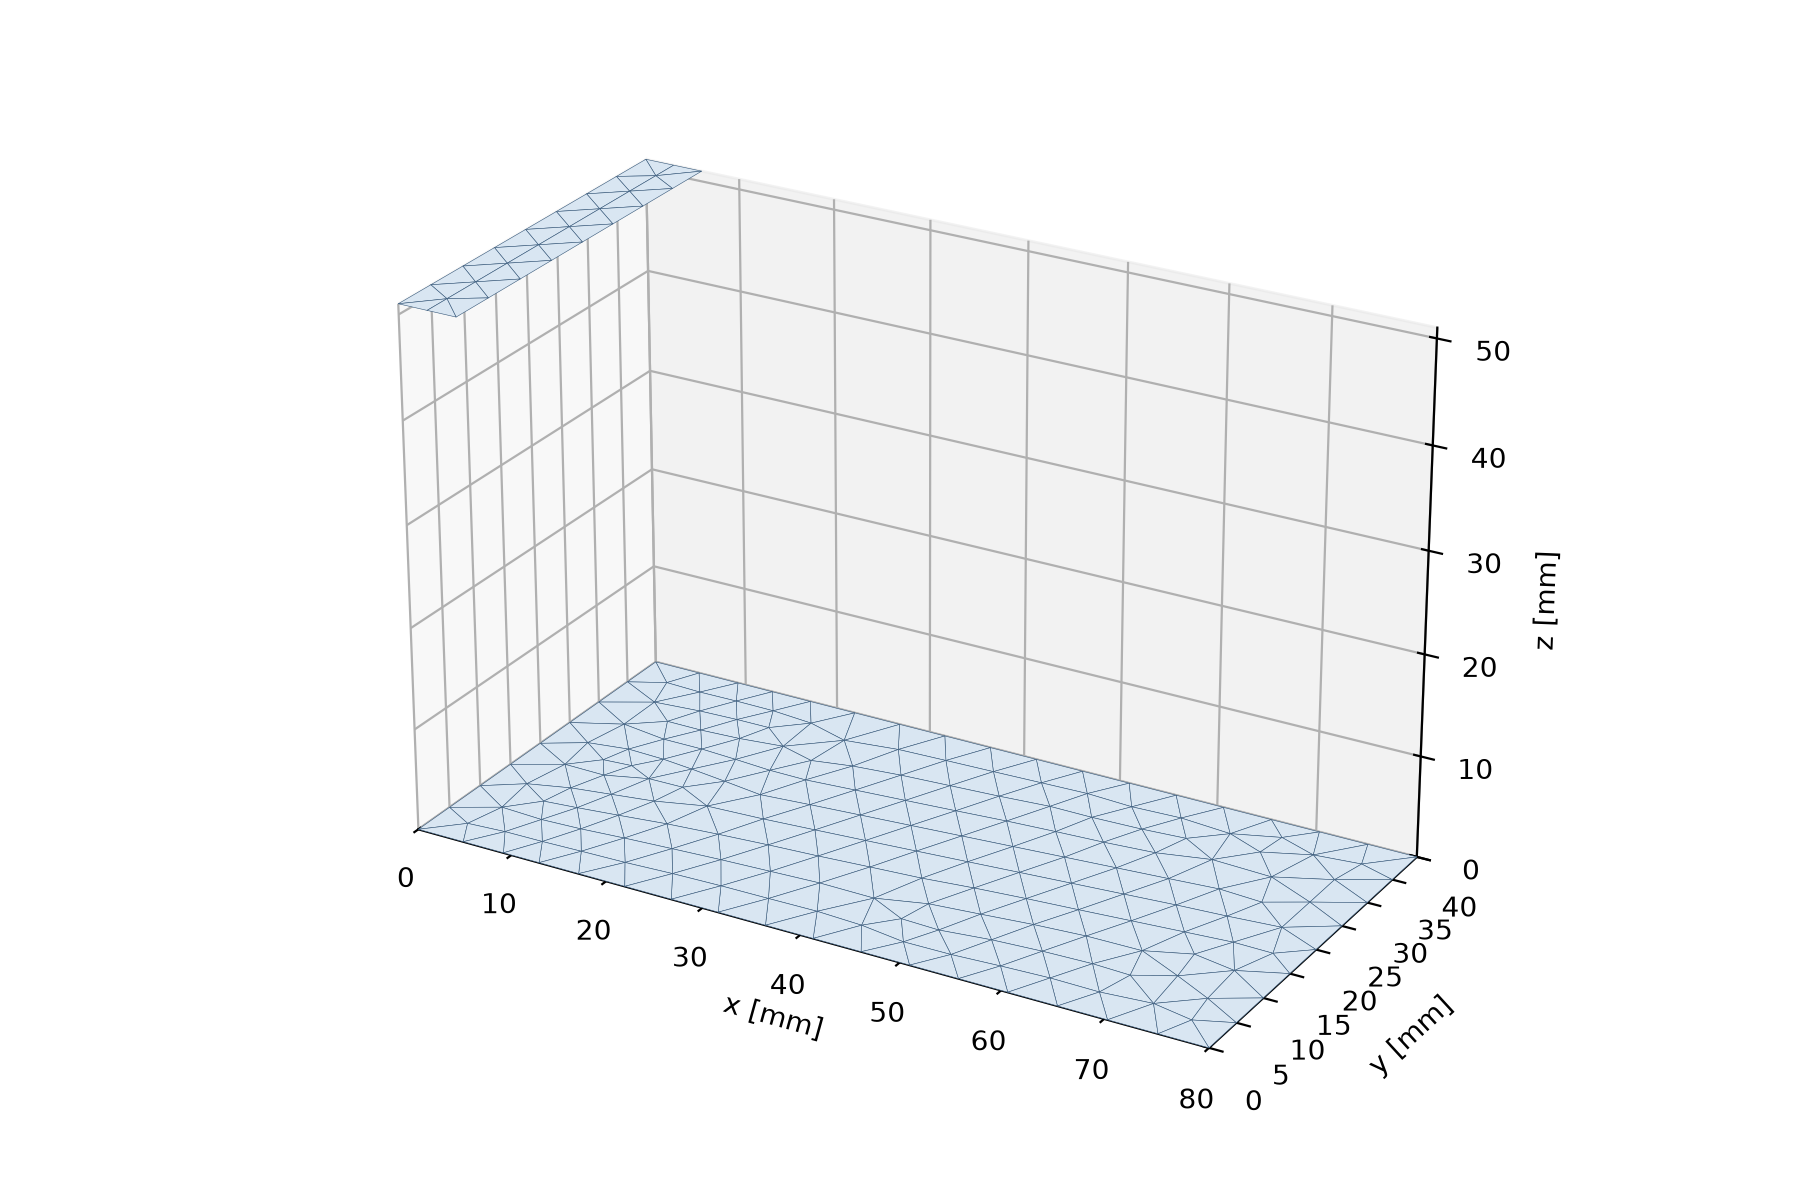
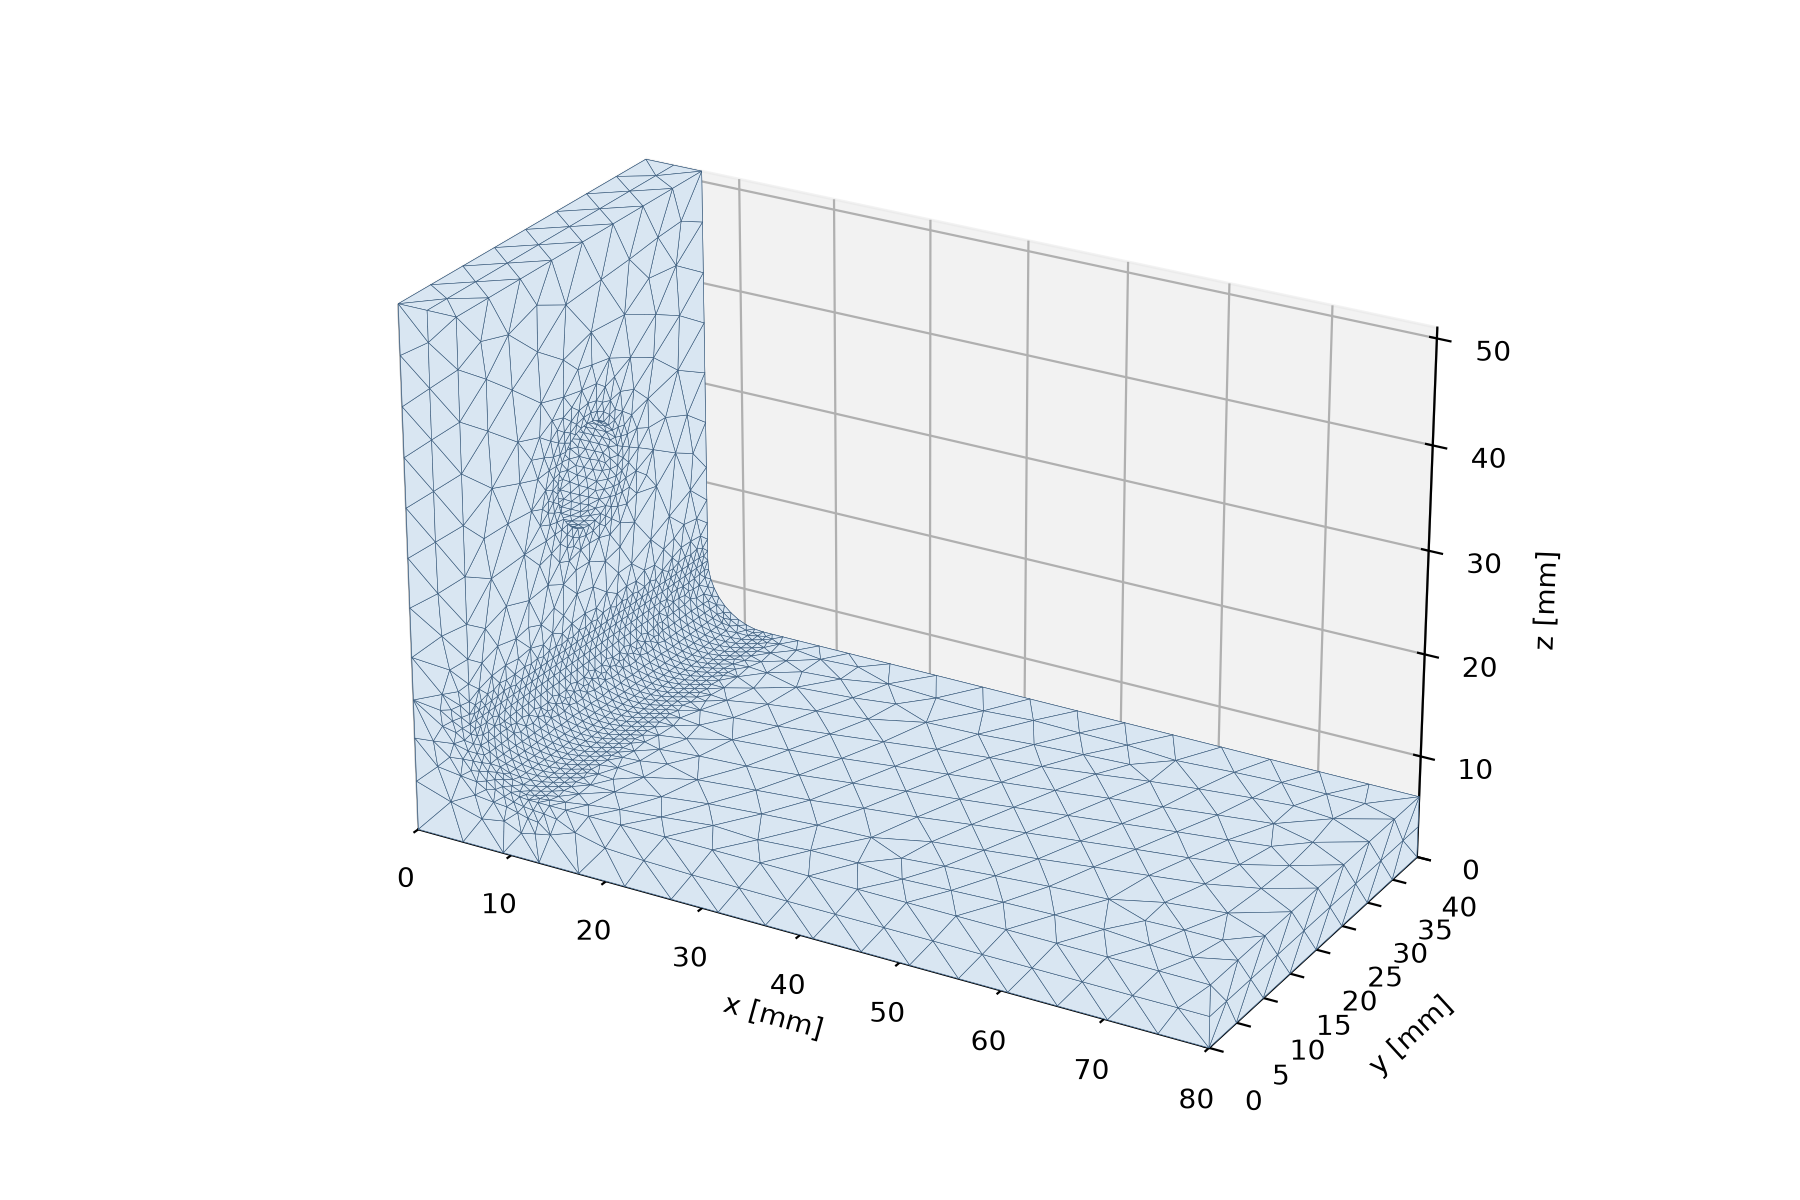
Add dimensioned geometry drawing, stress contour and mesh figure

Changed region(s): [[0.2178, 0.1542, 0.8089, 0.8633]]

diff --git a/scripts/plot_geometry.py b/scripts/plot_geometry.py
@@ -1,0 +1,101 @@
+"""Dimensioned drawing of the L-bracket: python scripts/plot_geometry.py"""
+import argparse
+import sys
+
+import numpy as np
+import matplotlib
+matplotlib.use("Agg")
+import matplotlib.pyplot as plt
+
+from bracket.geometry import HOLE_FRAC, L, W, is_valid
+
+ap = argparse.ArgumentParser()
+ap.add_argument("--t", type=float, default=6)
+ap.add_argument("--H", type=float, default=45)
+ap.add_argument("--r_hole", type=float, default=5)
+ap.add_argument("--r_fillet", type=float, default=6)
+ap.add_argument("--out", default="results/geometry.png")
+a = ap.parse_args()
+
+p = dict(t=a.t, H=a.H, r_hole=a.r_hole, r_fillet=a.r_fillet)
+if not is_valid(p):
+    sys.exit(f"invalid geometry: {p}")
+t, H, rh, rf = a.t, a.H, a.r_hole, a.r_fillet
+zc = t + HOLE_FRAC * H                      # height of the hole centre above the bottom face
+
+VAR, FIX, GREY, FS = "#1f5fbf", "#222222", "#888888", 12
+ARROW = dict(arrowstyle="<->", lw=1.1, shrinkA=0, shrinkB=0)
+
+
+def hdim(ax, x0, x1, y, label, color, below=False):
+    ax.annotate("", xy=(x0, y), xytext=(x1, y), arrowprops=dict(color=color, **ARROW))
+    ax.text(0.5 * (x0 + x1), y - 2 if below else y + 2, label, ha="center",
+            va="top" if below else "bottom", color=color, fontsize=FS)
+
+
+def vdim(ax, x, y0, y1, label, color, side="left", rotate=True):
+    ax.annotate("", xy=(x, y0), xytext=(x, y1), arrowprops=dict(color=color, **ARROW))
+    ax.text(x - 2 if side == "left" else x + 2, 0.5 * (y0 + y1), label,
+            ha="right" if side == "left" else "left", va="center",
+            rotation=90 if rotate else 0, color=color, fontsize=FS)
+
+
+def ext(ax, x0, y0, x1, y1):
+    ax.plot([x0, x1], [y0, y1], color=GREY, lw=0.8)
+
+
+xl1, xl2 = (-24, L + 24), (-8, W + 24)
+yl = (-24, t + H + 18)
+fig, axs = plt.subplots(1, 2, figsize=(13, 6.4),
+                        gridspec_kw=dict(width_ratios=[xl1[1] - xl1[0], xl2[1] - xl2[0]]))
+
+# ---- side view (x-z) ----
+ax = axs[0]
+phi = np.radians(np.linspace(270, 180, 40))
+arc = np.c_[t + rf + rf * np.cos(phi), t + rf + rf * np.sin(phi)]
+outline = np.vstack([[0, 0], [L, 0], [L, t], arc, [t, t + H], [0, t + H], [0, 0]])
+ax.fill(outline[:, 0], outline[:, 1], facecolor="#e8eef6", edgecolor=FIX, lw=1.6)
+for z in (zc - rh, zc + rh):                # hidden edges of the hole
+    ax.plot([0, t], [z, z], "--", color="#555555", lw=1)
+ext(ax, 0, 0, 0, -13); ext(ax, L, 0, L, -13)
+hdim(ax, 0, L, -11, f"{L:g}", FIX, below=True)
+ext(ax, 0, t, -13, t); ext(ax, 0, t + H, -13, t + H)
+vdim(ax, -11, t, t + H, f"H = {H:g}", VAR, side="left")
+ext(ax, 0, t + H, 0, t + H + 12); ext(ax, t, t + H, t, t + H + 12)
+hdim(ax, 0, t, t + H + 10, f"t = {t:g}", VAR)
+ext(ax, L, 0, L + 13, 0); ext(ax, L, t, L + 13, t)
+vdim(ax, L + 11, 0, t, f"t = {t:g}", VAR, side="right", rotate=False)
+ang = np.radians(225)
+ax.annotate(f"R = {rf:g}", xy=(t + rf + rf * np.cos(ang), t + rf + rf * np.sin(ang)),
+            xytext=(t + rf + 18, t + rf + 14), color=VAR, fontsize=FS,
+            arrowprops=dict(arrowstyle="->", color=VAR, lw=1.1))
+ax.set_title("Side view", fontsize=13)
+ax.set_xlim(*xl1); ax.set_ylim(*yl); ax.set_aspect("equal"); ax.axis("off")
+
+# ---- front view (y-z), looking at the inner face of the leg ----
+ax = axs[1]
+ax.fill([0, W, W, 0], [0, 0, t + H, t + H], facecolor="#e8eef6", edgecolor=FIX, lw=1.6)
+ax.plot([0, W], [t, t], color=FIX, lw=0.8)                       # top of the base plate
+ax.plot([0, W], [t + rf, t + rf], "--", color="#777777", lw=0.8)  # tangent edge of the fillet
+ax.add_patch(plt.Circle((W / 2, zc), rh, facecolor="white", edgecolor=FIX, lw=1.6, zorder=3))
+ext(ax, 0, 0, 0, -13); ext(ax, W, 0, W, -13)
+hdim(ax, 0, W, -11, f"{W:g}", FIX, below=True)
+a40 = np.radians(40)
+ax.annotate(f"r_hole = {rh:g}", xy=(W / 2 + rh * np.cos(a40), zc + rh * np.sin(a40)),
+            xytext=(W / 2 + 4, zc + rh + 9), color=VAR, fontsize=FS, zorder=4,
+            arrowprops=dict(arrowstyle="->", color=VAR, lw=1.1))
+ext(ax, W, t, W + 13, t); ext(ax, W / 2 + rh, zc, W + 13, zc)
+vdim(ax, W + 11, t, zc, f"{HOLE_FRAC:g}·H = {HOLE_FRAC * H:g}", VAR, side="right")
+ax.text(W / 2, t + rf + 1.5, f"fillet R = {rf:g} (tangent edge)", ha="center", va="bottom",
+        fontsize=10, color="#555555")
+ax.set_title("Front view (looking at the inner face of the leg)", fontsize=13)
+ax.set_xlim(*xl2); ax.set_ylim(*yl); ax.set_aspect("equal"); ax.axis("off")
+
+fig.suptitle(f"L-bracket, reference design: t = {t:g}, H = {H:g}, r_hole = {rh:g}, "
+             f"r_fillet = {rf:g}  (all dimensions in mm)", fontsize=14)
+fig.text(0.5, 0.02, "Blue: the four variable parameters.  Black: fixed base size.  "
+         "The bottom face is clamped, the load acts on the top face of the leg.",
+         ha="center", fontsize=11, color="#333333")
+fig.tight_layout(rect=(0, 0.05, 1, 0.94))
+fig.savefig(a.out, dpi=170)
+print("wrote", a.out)

diff --git a/src/bracket/viz.py b/src/bracket/viz.py
@@ -1,0 +1,100 @@
+"""Surface extraction and rendering for stress contour plots (no FE dependency)."""
+import os
+
+import numpy as np
+
+_TET_FACES = ((0, 1, 2), (0, 1, 3), (0, 2, 3), (1, 2, 3))
+
+
+def boundary_triangles(tets):
+    """Faces that belong to exactly one tetrahedron. `tets` holds the 4 corner node ids per cell."""
+    faces = np.vstack([tets[:, f] for f in _TET_FACES])
+    _, first, counts = np.unique(np.sort(faces, axis=1), axis=0,
+                                 return_index=True, return_counts=True)
+    return faces[first[counts == 1]]
+
+
+def nodal_average(n_nodes, node_of_value, values):
+    """Average values that belong to the same node (e.g. DG1 values of all cells at a vertex)."""
+    total = np.zeros(n_nodes)
+    count = np.zeros(n_nodes)
+    np.add.at(total, node_of_value, values)
+    np.add.at(count, node_of_value, 1.0)
+    return total / np.maximum(count, 1.0)
+
+
+def render_matplotlib(points, tris, values, clim, marker, label, title, out, n_levels=10):
+    import matplotlib
+    matplotlib.use("Agg")
+    import matplotlib.pyplot as plt
+    from matplotlib import cm, colors
+    from mpl_toolkits.mplot3d.art3d import Poly3DCollection
+
+    norm = colors.Normalize(*clim)
+    cmap = plt.get_cmap("jet", n_levels)
+    face_rgba = cmap(norm(values[tris].mean(axis=1)))
+    fig = plt.figure(figsize=(11, 7))
+    ax = fig.add_subplot(111, projection="3d")
+    ax.add_collection3d(Poly3DCollection(points[tris], facecolors=face_rgba,
+                                         edgecolors=face_rgba, linewidths=0.3))
+    used = points[np.unique(tris)]
+    lo, hi = used.min(axis=0), used.max(axis=0)
+    ax.set_xlim(lo[0], hi[0]); ax.set_ylim(lo[1], hi[1]); ax.set_zlim(lo[2], hi[2])
+    ax.set_box_aspect(hi - lo)
+    ax.view_init(elev=22, azim=38)
+    ax.set_axis_off()
+    if marker is not None:                      # 2D annotation, so it stays on top of the surface
+        from mpl_toolkits.mplot3d import proj3d
+        x2, y2, _ = proj3d.proj_transform(*marker, ax.get_proj())
+        ax.annotate(label, xy=(x2, y2), xytext=(-70, 60), textcoords="offset points",
+                    fontsize=12, color="black",
+                    bbox=dict(boxstyle="round,pad=0.3", facecolor="white", edgecolor="black"),
+                    arrowprops=dict(arrowstyle="-|>", color="black", lw=1.5))
+    sm = cm.ScalarMappable(norm=norm, cmap=cmap)
+    sm.set_array([])
+    fig.colorbar(sm, ax=ax, shrink=0.6, pad=0.02, label="von Mises stress [MPa]")
+    ax.set_title(title, fontsize=12)
+    fig.savefig(out, dpi=170, bbox_inches="tight")
+    plt.close(fig)
+
+
+def render_pyvista(points, tris, values, clim, marker, label, title, out, n_levels=10):
+    import pyvista as pv
+
+    pv.OFF_SCREEN = True
+    cells = np.hstack([np.full((len(tris), 1), 3), tris]).astype(np.int64).ravel()
+    surf = pv.PolyData(points, cells)
+    surf.point_data["von Mises [MPa]"] = values
+    pl = pv.Plotter(off_screen=True, window_size=(1700, 1100))
+    pl.set_background("white")
+    pl.add_mesh(surf, scalars="von Mises [MPa]", cmap="jet", clim=clim, n_colors=n_levels,
+                lighting=False, show_edges=False,
+                scalar_bar_args=dict(title="von Mises stress [MPa]", n_labels=n_levels + 1,
+                                     fmt="%.0f", vertical=True, color="black",
+                                     title_font_size=20, label_font_size=18))
+    if marker is not None:
+        pl.add_point_labels(np.array([marker]), [label], point_size=16, font_size=22,
+                            text_color="black", point_color="black", shape_color="white",
+                            shape_opacity=0.85, always_visible=True,
+                            render_points_as_spheres=True)
+    pl.add_text(title, position="upper_edge", font_size=14, color="black")
+    pl.add_axes()
+    pl.camera_position = "iso"
+    pl.camera.zoom(1.15)
+    pl.screenshot(out)
+    pl.close()
+
+
+def render(points, tris, values, clim, marker, label, title, out, renderer="auto"):
+    """renderer: 'pyvista', 'matplotlib' or 'auto' (PyVista if a display exists, else matplotlib)."""
+    has_display = bool(os.environ.get("DISPLAY") or os.environ.get("WAYLAND_DISPLAY"))
+    if renderer == "pyvista" or (renderer == "auto" and has_display):
+        try:
+            render_pyvista(points, tris, values, clim, marker, label, title, out)
+            return "pyvista"
+        except Exception as e:                       # fall back instead of failing
+            if renderer == "pyvista":
+                raise
+            print(f"PyVista rendering failed ({type(e).__name__}: {e}); using matplotlib")
+    render_matplotlib(points, tris, values, clim, marker, label, title, out)
+    return "matplotlib"

diff --git a/scripts/plot_stress.py b/scripts/plot_stress.py
@@ -1,0 +1,53 @@
+"""Von Mises contour plot of one design: python scripts/plot_stress.py [--renderer matplotlib]"""
+import argparse
+
+import numpy as np
+import gmsh
+from scipy.spatial import cKDTree
+
+from bracket.fea import solve
+from bracket.geometry import build_mesh
+from bracket.viz import boundary_triangles, nodal_average, render
+
+ap = argparse.ArgumentParser()
+ap.add_argument("--t", type=float, default=6)
+ap.add_argument("--H", type=float, default=45)
+ap.add_argument("--r_hole", type=float, default=5)
+ap.add_argument("--r_fillet", type=float, default=6)
+ap.add_argument("--h_global", type=float, default=3.4)
+ap.add_argument("--h_local", type=float, default=0.85)
+ap.add_argument("--renderer", choices=["auto", "pyvista", "matplotlib"], default="auto")
+ap.add_argument("--out", default="results/stress_contour.png")
+a = ap.parse_args()
+
+p = dict(t=a.t, H=a.H, r_hole=a.r_hole, r_fillet=a.r_fillet)
+gmsh.initialize()
+gmsh.option.setNumber("General.Terminal", 0)
+try:
+    gmsh.model.add("bracket")
+    build_mesh(p, a.h_global, a.h_local)
+    r = solve(p)
+finally:
+    gmsh.finalize()
+
+mesh, vm = r.mesh, r.vm
+nodes = mesh.geometry.x                          # all geometry nodes (corners and edge midpoints)
+tets = mesh.geometry.dofmap[:, :4]               # the 4 corner nodes of every tetrahedron
+
+# vm lives in DG1: one value per cell vertex. Map every value to its geometry node and average.
+dof_xyz = vm.function_space.tabulate_dof_coordinates()
+_, node_of_dof = cKDTree(nodes).query(dof_xyz)
+values = nodal_average(len(nodes), node_of_dof, vm.x.array)
+tris = boundary_triangles(tets)
+
+vmax = float(vm.x.array.max())                   # unaveraged maximum, same number as elsewhere
+clim = (float(values[np.unique(tris)].min()), vmax)
+title = (f"von Mises stress, t = {p['t']:g}, H = {p['H']:g}, r_hole = {p['r_hole']:g}, "
+         f"r_fillet = {p['r_fillet']:g} (mm)")
+used = render(nodes, tris, values, clim, r.loc_max, f"Max {vmax:.1f} MPa", title, a.out, a.renderer)
+
+print(f"renderer             {used}")
+print(f"DOFs                 {r.ndof}")
+print(f"max von Mises        {vmax:.1f} MPa (unaveraged), {values[np.unique(tris)].max():.1f} MPa (nodal average)")
+print("peak location (mm)   x=%.1f y=%.1f z=%.1f" % r.loc_max)
+print("wrote", a.out)

diff --git a/scripts/make_mesh.py b/scripts/make_mesh.py
@@ -20,6 +20,7 @@ try:
     build_mesh(params, a.h_global, a.h_local)
     for k, v in quality_metrics().items():
         print(f"{k:12s} {v:.4g}")
+    gmsh.option.setNumber("Mesh.SaveAll", 1)
     gmsh.write(a.out)
     print("wrote", a.out)
 finally:

diff --git a/README.md b/README.md
@@ -50,6 +50,7 @@ The result files are included, so `make train` and `make test` work without re-r
 | `make audit` | re-solves every design on a second mesh, builds `dataset_clean.csv` | roughly 20-30 min |
 | `make train` | trains and evaluates the surrogate | about a minute |
 | `make cv` | repeated cross-validation | about a minute |
+| `make figures` | geometry drawing and stress contour for this README | under a minute |
 
 Predict a new design:
 
@@ -69,6 +70,10 @@ L-shaped bracket: base plate 80 x 40 mm, upright leg of height H with a round ho
 | `r_fillet` | inner fillet radius | 3 - 10 |
 
 Geometries that cannot be built (hole overlapping the fillet or the leg top, oversized fillet) are rejected before meshing.
+
+![Geometry](results/geometry.png)
+
+*Dimensioned views of the reference design (all dimensions in mm). Blue marks the four variable parameters; the base size is fixed.*
 
 ## Method notes
 
@@ -93,6 +98,12 @@ Geometries that cannot be built (hole overlapping the fillet or the leg top, ove
 | 2.6 / 0.65 | 193,059 | 101.87 | 0.29 % |
 
 Criterion: relative change below 2 % for the last two refinements. The values fluctuate around 102 MPa instead of approaching it monotonically, which is typical when every refinement is a new unstructured mesh. The generated HTML report (`results/convergence_report.html`) adds the quality plots.
+
+### Stress field of the reference design
+
+![von Mises stress](results/stress_contour.png)
+
+Von Mises stress on the dataset mesh (h = 3.4 mm, 0.85 mm near hole and fillet), nodal-averaged for display with a banded colour scale. The scale ends at the maximum of the unaveraged element field, which is the value used everywhere else in this README, so the averaged peak shows slightly below the top of the scale. The marker shows where that maximum is.
 
 ### Choice of the dataset mesh
 
